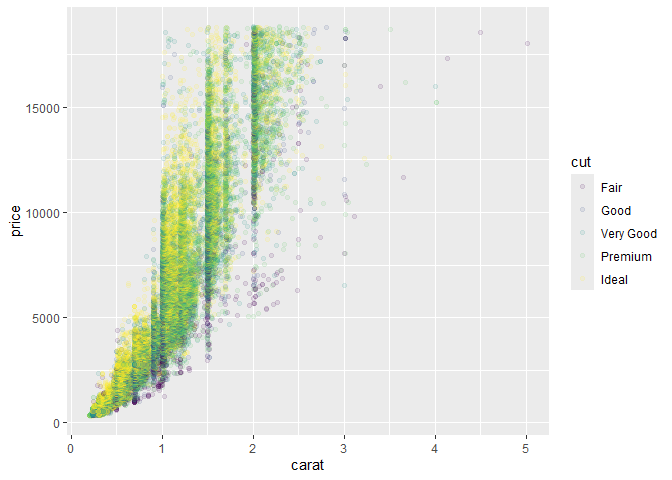
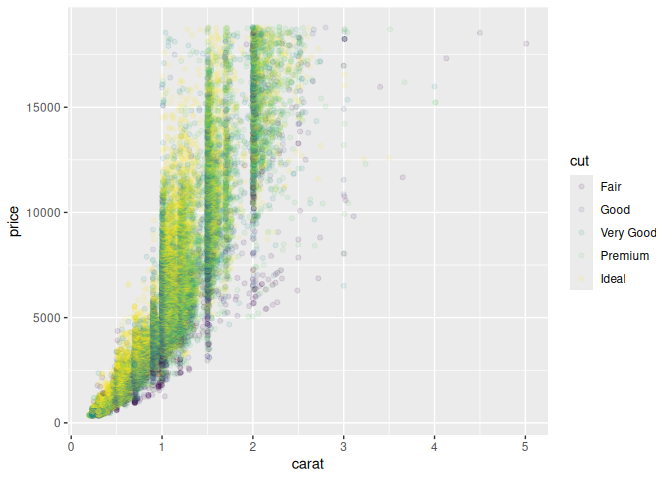
revised challenge 00

diff --git a/challenges/c00-diamonds-assignment.md b/challenges/c00-diamonds-assignment.md
@@ -1,7 +1,7 @@
 Getting Started: Diamonds
 ================
-(Your name here)
-2020-
+Pepper Wang
+2026-10-11 (revised)
 
 - [Grading Rubric](#grading-rubric)
   - [Individual](#individual)
@@ -98,10 +98,10 @@ document your observations.
 ``` r
 ## TASK: Plot `price` vs `carat` below
 ## Your code here!
-ggplot(diamonds) +
-  geom_point(mapping=aes(
-    x = carat,
-    y = price))
+
+diamonds |>
+  ggplot(aes(x = carat, y = price)) +
+  geom_point(alpha = 0.05)
 ```
 
 ![](c00-diamonds-assignment_files/figure-gfm/q1-task-1.png)<!-- -->
@@ -118,23 +118,34 @@ ggplot(diamonds) +
 ``` r
 ## TASK: Plot `price`, `carat`, and `cut` below
 ## Your code here!
-ggplot(diamonds) +
-  geom_point(
-    mapping=aes(
-      x = carat,
-      y = price,
-      color = cut
-    ),
-    alpha=0.1
-  )
+diamonds |>
+  ggplot(aes(x = carat, y = price, color = cut)) +
+  geom_point(alpha = 0.1)
 ```
 
 ![](c00-diamonds-assignment_files/figure-gfm/q2-task-1.png)<!-- -->
 
+``` r
+diamonds |>
+  ggplot(aes(price)) +
+  geom_freqpoly(
+    aes(
+      color = cut,
+    ),
+    bins = 60
+  )
+```
+
+![](c00-diamonds-assignment_files/figure-gfm/q2-task-revised-1.png)<!-- -->
+
 **Observations**:
 
-- Most of the diamonds on the lower end of the price range are worse
-  quality.
+- The lower quality a cut is, the fewer diamonds there are of that cut -
+  for example, there are many more ideal diamonds than any other cut,
+  and there are very few fair diamonds.
+- The price distribution is about the same for all cuts - there are the
+  most diamonds under \$2000, then there are some around \$4000, then
+  there are much fewer more expensive than that.
 
 # Communication
 
